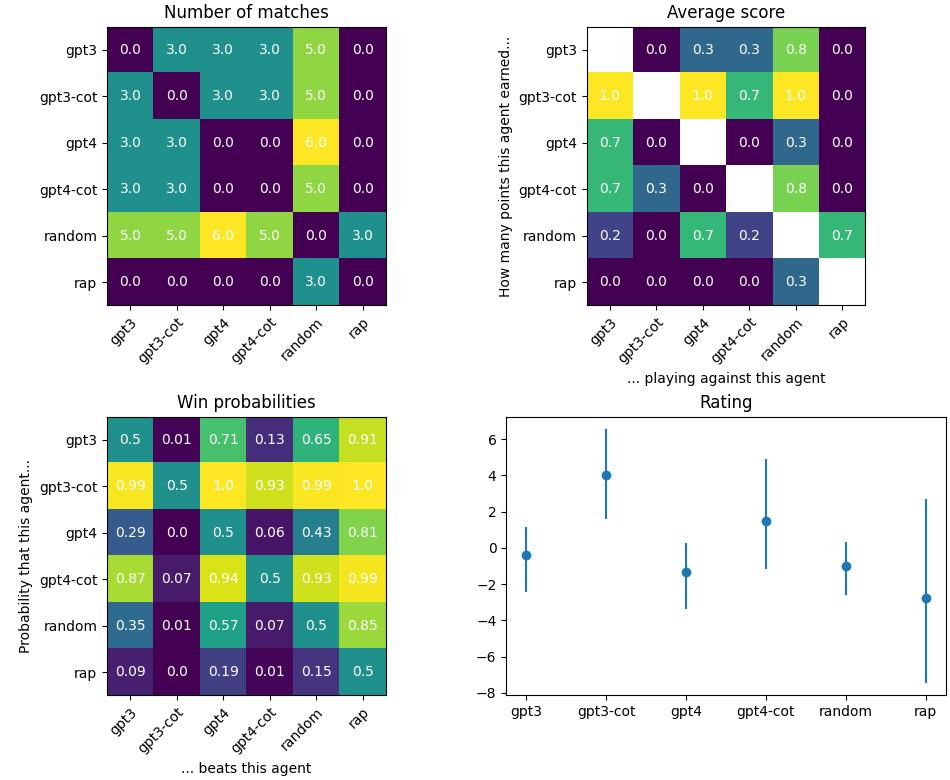
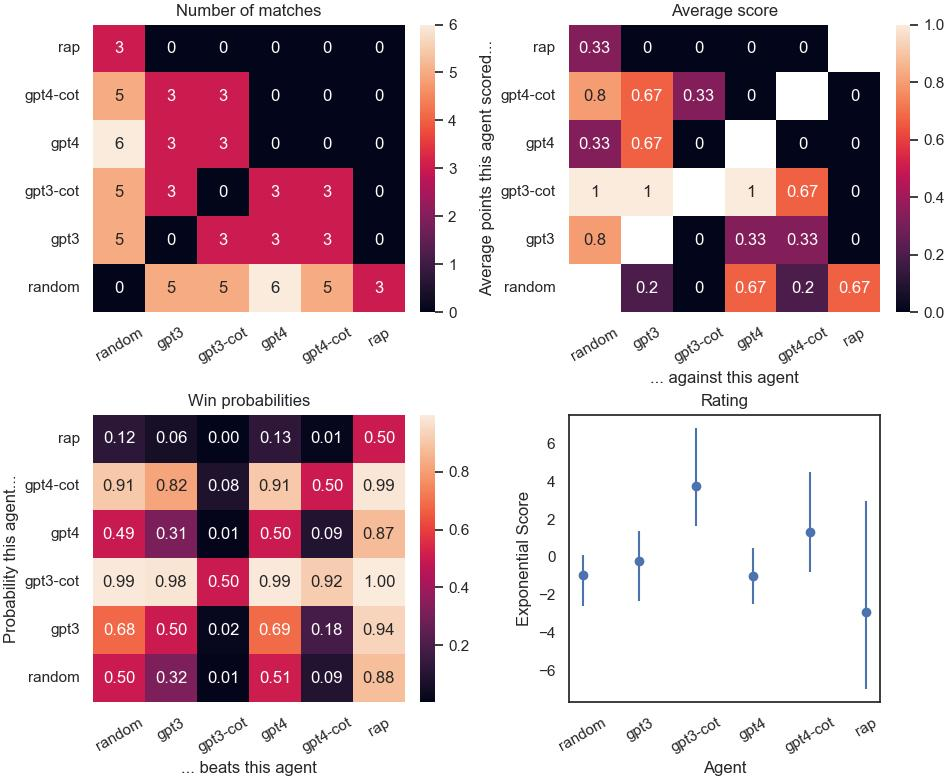
updated figures

diff --git a/make_visuals.py b/make_visuals.py
@@ -6,6 +6,9 @@ import choix
 import matplotlib.pyplot as plt
 import numpy as np
 import functools
+import seaborn as sns
+
+sns.set(style='white')
 
 def make_figures(game, matches):
 
@@ -16,17 +19,15 @@ def make_figures(game, matches):
 
     players = ["random", "gpt3", "gpt3-cot", "gpt4", "gpt4-cot", "rap"]#list(players)
     n_players = len(players)
-    players.sort()
+    #players.sort()
 
-    fig, axs = plt.subplots(2, 2)
-    fig.tight_layout()
+    fig, axs = plt.subplots(2, 2, figsize=(9.5, 7.8), constrained_layout=True)
     pos_nmatches = 0, 0
     pos_score = 0, 1
     pos_prob = 1, 0
     pos_rating = 1, 1
 
     ################################################################################
-    #fig, ax = plt.subplots()
 
     n_matches = defaultdict(int)
 
@@ -35,7 +36,7 @@ def make_figures(game, matches):
         n_matches[agents[0], agents[1]] += 1
         n_matches[agents[1], agents[0]] += 1
 
-    matrix = np.zeros((n_players, n_players))
+    matrix = np.zeros((n_players, n_players), dtype="int")
     for i, player1 in enumerate(players):
         for j, player2 in enumerate(players):
             if player1 == player2:
@@ -43,27 +44,16 @@ def make_figures(game, matches):
 
             matrix[i][j] = n_matches[player1, player2]
 
-    im = axs[pos_nmatches].imshow(matrix)
-
-    axs[pos_nmatches].set_xticks(np.arange(n_players), labels=players)
-    axs[pos_nmatches].set_yticks(np.arange(n_players), labels=players)
-    plt.setp(axs[pos_nmatches].get_xticklabels(), rotation=45, ha="right", rotation_mode="anchor")
-
-    for i in range(n_players):
-        for j in range(n_players):
-            text = axs[pos_nmatches].text(
-                j, i, matrix[i, j].round(1), ha="center", va="center", color="w"
-            )
+    sns.heatmap(matrix, ax=axs[pos_nmatches], annot=True, xticklabels=players, yticklabels=players)
+    axs[pos_nmatches].tick_params(axis='x', rotation=30)
+    axs[pos_nmatches].tick_params(axis='y', rotation=0)
+    axs[pos_nmatches].invert_yaxis()
+    #plt.xticks(rotation=30)
 
     axs[pos_nmatches].set_title("Number of matches")
 
-    #plt.show()
-    #plt.savefig(f"images/{game}_nummatches.jpg")
-    #plt.close()
-
     ################################################################################
 
-    #fig, ax = plt.subplots()
 
     wins = defaultdict(int)
     for match in matches:
@@ -83,28 +73,16 @@ def make_figures(game, matches):
 
             matrix[i, j] = wins[player1, player2]
 
-    im = axs[pos_score].imshow(matrix)
-
-    axs[pos_score].set_xticks(np.arange(n_players), labels=players)
-    axs[pos_score].set_yticks(np.arange(n_players), labels=players)
-    plt.setp(axs[pos_score].get_xticklabels(), rotation=45, ha="right", rotation_mode="anchor")
-
-    for i in range(n_players):
-        for j in range(n_players):
-            text = axs[pos_score].text(
-                j, i, matrix[i, j].round(1), ha="center", va="center", color="w"
-            )
+    sns.heatmap(matrix, ax=axs[pos_score], annot=True, xticklabels=players, yticklabels=players)
 
     axs[pos_score].set_title("Average score")
-    axs[pos_score].set_ylabel("How many points this agent earned...")
-    axs[pos_score].set_xlabel("... playing against this agent")
-
-    #plt.show()
-    #plt.savefig(f"images/{game}_averagescore.jpg")
-    #plt.close()
+    axs[pos_score].set_ylabel("Average points this agent scored...")
+    axs[pos_score].set_xlabel("... against this agent")
+    axs[pos_score].tick_params(axis='x', rotation=30)
+    axs[pos_score].tick_params(axis='y', rotation=0)
+    axs[pos_score].invert_yaxis()
 
     ################################################################################
-    #fig, ax = plt.subplots()
 
     def lsr_pairwise(n_items, data, alpha=0.0, initial_params=None):
         weights, chain = choix.lsr._init_lsr(n_items, alpha, initial_params)
@@ -142,7 +120,6 @@ def make_figures(game, matches):
         for match in matches:
             weights[match["game"]] += 1
         weights = [1 / weights[m["game"]] for m in matches]
-        print(len(weights))
         bootstrapped_params = np.array(
             [
                 get_params(
@@ -168,50 +145,34 @@ def make_figures(game, matches):
     ci90s = np.percentile(bootstrapped_params, [5, 95], axis=1)
     ci90s = np.absolute(ratings - ci90s)
 
-    #ax.scatter(players, params)
     axs[pos_rating].errorbar(players, ratings, yerr=ci90s, fmt="o")
     axs[pos_rating].set_title("Rating")
-
-    #plt.show()
-    #plt.savefig(f"images/{game}_rating.jpg")
-    #plt.close()
+    axs[pos_rating].set_xlabel("Agent")
+    axs[pos_rating].set_ylabel("Exponential Score")
+    axs[pos_rating].tick_params(axis='x', rotation=30)
 
     ################################################################################
-    #fig, ax = plt.subplots()
 
     matrix = np.zeros((n_players, n_players))
     for i in range(n_players):
         for j in range(n_players):
             matrix[i, j] = choix.probabilities([i, j], ratings)[0]
 
-    im = axs[pos_prob].imshow(matrix)
-
-    axs[pos_prob].set_xticks(np.arange(n_players), labels=players)
-    axs[pos_prob].set_yticks(np.arange(n_players), labels=players)
-    plt.setp(axs[pos_prob].get_xticklabels(), rotation=45, ha="right", rotation_mode="anchor")
-
-    for i in range(n_players):
-        for j in range(n_players):
-            text = axs[pos_prob].text(
-                j, i, matrix[i, j].round(2), ha="center", va="center", color="w"
-            )
-
+    sns.heatmap(matrix, ax=axs[pos_prob], annot=True, xticklabels=players, yticklabels=players, fmt=".2f")
     axs[pos_prob].set_title("Win probabilities")
-    axs[pos_prob].set_ylabel("Probability that this agent...")
+    axs[pos_prob].set_ylabel("Probability this agent...")
     axs[pos_prob].set_xlabel("... beats this agent")
+    axs[pos_prob].tick_params(axis='x', rotation=30)
+    axs[pos_prob].tick_params(axis='y', rotation=0)
+    axs[pos_prob].invert_yaxis()
 
-    #plt.show()
-    #plt.savefig(f"images/{game}_probabilities.jpg")
-    #plt.close()
 
     ################################################################################
 
-    #fig.set_size_inches(25, 5)
     plt.savefig(f"figures/{game}.jpg")
-    #plt.show()
     plt.close()
 
-for game in ["sea_battle", "two_rooms_and_a_boom", "are_you_the_traitor", "air_land_sea", "santorini", "hive", "pit", "arctic_scavengers", "codenames", "atari_boxing"]:
+for game in ["sea_battle", "two_rooms_and_a_boom", "are_you_the_traitor", "air_land_sea", "santorini", "hive", "pit", "arctic_scavengers", "codenames"]:
     matches = [m for m in load_json("matches.json") if m["game"] == game]
     make_figures(game, matches)
 
